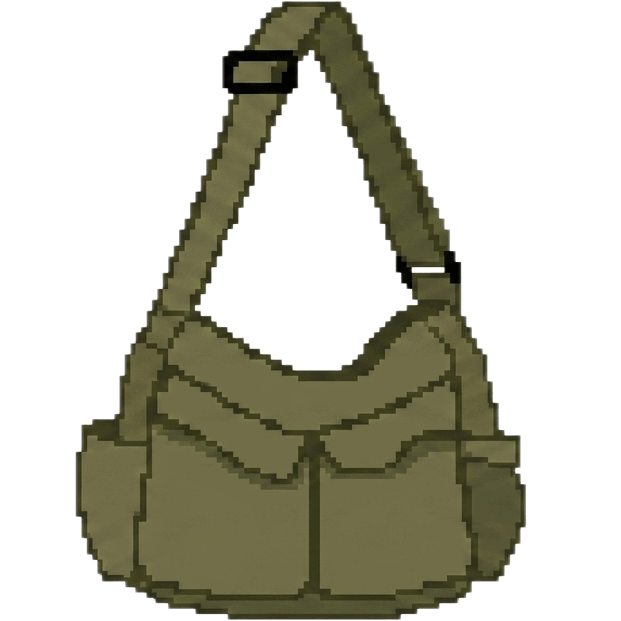
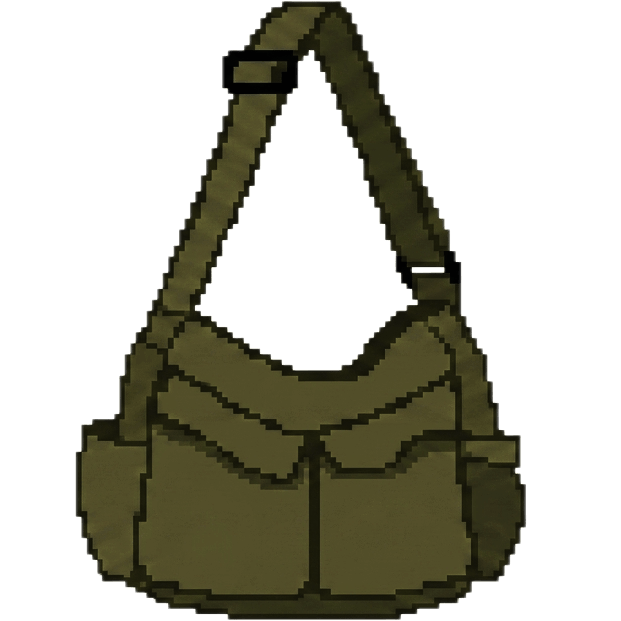
Персонаж перерисован и анимирован + улучшение логики

diff --git a/GameController.cs b/GameController.cs
@@ -92,7 +92,7 @@ namespace LikhoStation
         // СОХРАНЕНИЕ И ЗАГРУЗКА
         private void SaveGame()
         {
-            string data = $"{CurrentLevel.Name},{CurrentLevel.IsBagPickedUp}";
+            var data = $"{CurrentLevel.Name},{CurrentLevel.IsBagPickedUp}";
             File.WriteAllText(saveFilePath, data);
             HasSaveFile = true;
         }
@@ -101,12 +101,12 @@ namespace LikhoStation
         {
             if (File.Exists(saveFilePath))
             {
-                string[] data = File.ReadAllText(saveFilePath).Split(',');
+                var data = File.ReadAllText(saveFilePath).Split(',');
 
                 if (data.Length >= 2)
                 {
-                    string savedScene = data[0];
-                    bool isBagPickedUp = bool.Parse(data[1]);
+                    var savedScene = data[0];
+                    var isBagPickedUp = bool.Parse(data[1]);
 
                     LoadScene(savedScene);
                     CurrentLevel.IsBagPickedUp = isBagPickedUp;
@@ -142,9 +142,10 @@ namespace LikhoStation
             CurrentLevel.HasKhmar = false;
             CurrentLevel.IsStaticCamera = true;
             CurrentLevel.WorldWidth = screenWidth;
-            CurrentLevel.GroundY = screenHeight * 0.97f; // Опустили горизонт
+            CurrentLevel.GroundY = screenHeight * 0.97f;
 
-            Player.Size = new Size(200, 550);
+            Player.Speed = 10.0f;
+            Player.Size = new Size(325, 650);
             Player.Pos = new PointF(100, CurrentLevel.GroundY - Player.Size.Height);
 
             CurrentLevel.Platforms.Clear();
@@ -161,7 +162,7 @@ namespace LikhoStation
             CurrentLevel.WorldWidth = 3500;
             CurrentLevel.GroundY = screenHeight * 0.91f;
 
-            Player.Size = new Size(80, 220);
+            Player.Size = new Size(125, 250);
             Player.Pos = new PointF(100, CurrentLevel.GroundY - Player.Size.Height);
 
             CurrentLevel.Platforms.Clear();
@@ -200,9 +201,10 @@ namespace LikhoStation
             CurrentLevel.FollowY = true;
             CurrentLevel.WorldWidth = 3500;
 
-            Player.Size = new Size(180, 495);
+            Player.Speed = 10.0f;
+            Player.Size = new Size(250, 500);
 
-            float startY = 1040f;
+            var startY = 1040f;
 
             Player.Pos = new PointF(300, startY - Player.Size.Height - 50);
 
@@ -210,18 +212,18 @@ namespace LikhoStation
 
             CurrentLevel.Platforms.Add(new RectangleF(0, startY, 1130, 2000));
 
-            int steps = 31;
-            float stepW = 37;
-            float stepH = 49;
+            var steps = 31;
+            var stepW = 37;
+            var stepH = 49;
 
             for (int i = 0; i < steps; i++)
             {
-                float x = 1130 + (i * stepW);
-                float y = startY + (i * stepH);
+                var x = 1130 + (i * stepW);
+                var y = startY + (i * stepH);
                 CurrentLevel.Platforms.Add(new RectangleF(x, y, stepW, 2000));
             }
 
-            float bottomY = startY + (steps * stepH);
+            var bottomY = startY + (steps * stepH);
             CurrentLevel.GroundY = bottomY;
 
             CurrentLevel.Platforms.Add(new RectangleF(1130 + (steps * stepW), bottomY, 2000, 2000));
@@ -242,8 +244,8 @@ namespace LikhoStation
         private void UpdateCutscene()
         {
             CurrentLevel.CutsceneTimer++;
-            int fadeSpeed = (CurrentLevel.CutsceneStep >= 4) ? 20 : 8; // В вагоне переходы быстрее
-            int stayTime = (CurrentLevel.CutsceneStep == 6) ? 450 : 120; // 6 кадр висит долго
+            var fadeSpeed = (CurrentLevel.CutsceneStep >= 4) ? 20 : 8; // В вагоне переходы быстрее
+            var stayTime = (CurrentLevel.CutsceneStep == 6) ? 450 : 120; // 6 кадр висит долго
 
             if (!CurrentLevel.IsFadeOut)
             {
@@ -278,7 +280,7 @@ namespace LikhoStation
         {
             State = GameState.Playing;
             CurrentLevel = new Level { Name = "AbandonedTrain", IsRealWorld = false, HasKhmar = true, WorldWidth = 2500 };
-            Player.Size = new Size(80, 220);
+            Player.Size = new Size(110, 220);
             CurrentLevel.GroundY = screenHeight * 0.75f;
             Player.Pos = new PointF(300, CurrentLevel.GroundY - Player.Size.Height);
             CurrentLevel.Platforms.Add(new RectangleF(0, CurrentLevel.GroundY, 2500, 500));
@@ -309,13 +311,14 @@ namespace LikhoStation
             CheckBoundaries();
             UpdateItems(pressedKeys);
             UpdateCamera();
+            UpdateAnimation();
         }
 
         private void UpdateDialog()
         {
             if (CurrentLevel.Name != "Kitchen" || CurrentLevel.HasPlayedIntroDialog) return;
 
-            if (Player.Pos.X >= 450 && CurrentLevel.DialogStep == 0)
+            if (Player.Pos.X >= 400 && CurrentLevel.DialogStep == 0)
             {
                 CurrentLevel.DialogStep = 1;
                 CurrentLevel.IsDialogActive = true;
@@ -327,8 +330,8 @@ namespace LikhoStation
         private void ProcessDialogState()
         {
             CurrentLevel.DialogTimer++;
-            int t = CurrentLevel.DialogTimer;
-            int limit = (CurrentLevel.DialogStep == 2) ? 80 : 110;
+            var t = CurrentLevel.DialogTimer;
+            var limit = (CurrentLevel.DialogStep == 2) ? 80 : 110;
 
             if (t <= 15) CurrentLevel.DialogAlpha = t * 17;
             else if (t >= (limit - 15) && t <= limit) CurrentLevel.DialogAlpha = (limit - t) * 17;
@@ -376,23 +379,39 @@ namespace LikhoStation
             }
         }
 
+        private void UpdateAnimation()
+        {
+            // Если диалог активен — Яна всегда стоит
+            if (CurrentLevel.IsDialogActive)
+            {
+                Player.IsMoving = false;
+                Player.WalkFrame = 0;
+                return;
+            }
+
+            if (Player.IsMoving && Player.IsGrounded)
+                Player.WalkFrame = (int)((DateTime.Now.TimeOfDay.TotalMilliseconds / 300) % 4); // СКОРОСТЬ ШАГА
+            else
+                Player.WalkFrame = 0;
+        }
+
         private void MovePlayerX(HashSet<Keys> keys)
         {
+            Player.IsMoving = false;
+
             if (Player.IsHoldingBreath || CurrentLevel.IsDialogActive) return;
+            var currentSpeed = Player.IsGrounded ? Player.Speed : Player.AirSpeed;
+            var nextX = Player.Pos.X;
 
-            float currentSpeed = Player.IsGrounded ? Player.Speed : Player.AirSpeed;
-
-            float nextX = Player.Pos.X;
-            if (keys.Contains(Keys.A) || keys.Contains(Keys.Left)) nextX -= currentSpeed;
-            if (keys.Contains(Keys.D) || keys.Contains(Keys.Right)) nextX += currentSpeed;
+            if (keys.Contains(Keys.A) || keys.Contains(Keys.Left)) { nextX -= currentSpeed; Player.FacingRight = false; Player.IsMoving = true; }
+            if (keys.Contains(Keys.D) || keys.Contains(Keys.Right)) { nextX += currentSpeed; Player.FacingRight = true; Player.IsMoving = true; }
 
             RectangleF nextPlayerX = new RectangleF(nextX, Player.Pos.Y, Player.Size.Width, Player.Size.Height);
-            bool canMoveX = true;
+            var canMoveX = true;
             foreach (var plat in CurrentLevel.Platforms)
                 if (nextPlayerX.IntersectsWith(plat)) { canMoveX = false; break; }
 
             if (canMoveX) Player.Pos.X = nextX;
-
             if (CurrentLevel.Name == "SubwayDescent" && (Player.Pos.X + Player.Size.Width) >= CurrentLevel.WorldWidth)
                 StartMetroCutscene();
         }
@@ -401,16 +420,18 @@ namespace LikhoStation
         {
             if (CurrentLevel.IsDialogActive) return;
 
-            bool canJump = CurrentLevel.Name != "Kitchen" && CurrentLevel.Name != "SubwayDescent";
+            var canJump = CurrentLevel.Name != "Kitchen" && CurrentLevel.Name != "SubwayDescent";
             if (keys.Contains(Keys.Space) && Player.IsGrounded && !Player.IsHoldingBreath && canJump)
             {
                 Player.VelocityY = Player.JumpPower;
                 Player.IsGrounded = false;
             }
 
-            float nextY = Player.Pos.Y + Player.VelocityY;
-            RectangleF nextPlayerY = new RectangleF(Player.Pos.X, nextY, Player.Size.Width, Player.Size.Height);
-            bool hitGround = false;
+            Player.VelocityY += gravity;
+
+            var nextY = Player.Pos.Y + Player.VelocityY;
+            var nextPlayerY = new RectangleF(Player.Pos.X, nextY, Player.Size.Width, Player.Size.Height);
+            var hitGround = false;
 
             foreach (var plat in CurrentLevel.Platforms)
             {
@@ -420,7 +441,7 @@ namespace LikhoStation
                     else if (Player.VelocityY < 0) { Player.Pos.Y = plat.Bottom; Player.VelocityY = 0; hitGround = true; break; }
                 }
             }
-            if (!hitGround) { Player.Pos.Y = nextY; Player.VelocityY += gravity; Player.IsGrounded = false; }
+            if (!hitGround) { Player.Pos.Y = nextY; Player.IsGrounded = false; }
         }
 
         private void CheckBoundaries()

diff --git a/GameRenderer.cs b/GameRenderer.cs
@@ -20,6 +20,12 @@ namespace LikhoStation
         private Image subwayFg;
         private Image[] cutsceneImages = new Image[6];
 
+        private Image yanaHoodieIdle;
+        private List<Image> yanaHoodieWalk = new List<Image>();
+
+        private Image yanaCoatIdle;
+        private List<Image> yanaCoatWalk = new List<Image>();
+
         private PrivateFontCollection customFonts = new PrivateFontCollection();
         private FontFamily pixelFont;
 
@@ -34,6 +40,14 @@ namespace LikhoStation
             if (File.Exists(@"images\street_bg.png")) streetBg = Image.FromFile(@"images\street_bg.png");
             if (File.Exists(@"images\subway_bg.png")) subwayBg = Image.FromFile(@"images\subway_bg.png");
             if (File.Exists(@"images\subway_fg.png")) subwayFg = Image.FromFile(@"images\subway_fg.png");
+
+            var p = @"images\";
+            if (File.Exists(p + "yana_hoodie_idle.png")) yanaHoodieIdle = Image.FromFile(p + "yana_hoodie_idle.png");
+            if (File.Exists(p + "yana_hoodie_w1.png")) yanaHoodieWalk.Add(Image.FromFile(p + "yana_hoodie_w1.png"));
+            if (File.Exists(p + "yana_hoodie_w2.png")) yanaHoodieWalk.Add(Image.FromFile(p + "yana_hoodie_w2.png"));
+            if (File.Exists(p + "yana_coat_idle.png")) yanaCoatIdle = Image.FromFile(p + "yana_coat_idle.png");
+            if (File.Exists(p + "yana_coat_w1.png")) yanaCoatWalk.Add(Image.FromFile(p + "yana_coat_w1.png"));
+            if (File.Exists(p + "yana_coat_w2.png")) yanaCoatWalk.Add(Image.FromFile(p + "yana_coat_w2.png"));
             if (File.Exists(@"images\LCD40x2Display-Regular.otf"))
             {
                 customFonts.AddFontFile(@"images\LCD40x2Display-Regular.otf");
@@ -184,17 +198,39 @@ namespace LikhoStation
         {
             Level level = engine.CurrentLevel;
             Player p = engine.Player;
+            bool isK = level.Name == "Kitchen";
+            Image idleImg = isK ? yanaHoodieIdle : yanaCoatIdle;
+            Image s = idleImg;
 
-            // Сначала рисуем саму Яну
-            Brush pBrush = p.IsExhausted ? ((blinkCounter % 16 < 8) ? Brushes.Red : Brushes.White) : (p.IsHoldingBreath ? Brushes.MediumPurple : Brushes.DarkRed);
-            g.FillRectangle(level.IsRealWorld ? Brushes.DarkRed : pBrush, p.Pos.X, p.Pos.Y, p.Size.Width, p.Size.Height);
-
-            // Затем поверх Яны рисуем передний план (перила эскалатора)
-            if (level.Name == "SubwayDescent" && subwayFg != null && !p.IsFocusMode)
+            if (!p.IsGrounded && !isK) // Если в прыжке (и это не кухня)
             {
-                // Используем ту же высоту 2700, что и для заднего фона, чтобы они идеально совпали
-                g.DrawImage(subwayFg, 0, 0, level.WorldWidth, 2700);
+                // Используем yana_coat_w2.png (это второй элемент в списке walk)
+                if (yanaCoatWalk.Count > 1) s = yanaCoatWalk[1];
             }
+            else if (p.IsMoving && p.IsGrounded)
+            {
+                var walkList = isK ? yanaHoodieWalk : yanaCoatWalk;
+                if (p.WalkFrame == 0 && walkList.Count > 0) s = walkList[0];
+                else if (p.WalkFrame == 2 && walkList.Count > 1) s = walkList[1];
+            }
+
+            if (s != null) DrawEntitySprite(g, s, p); // Вынес отрисовку в отдельный метод для чистоты
+
+            if (level.Name == "SubwayDescent" && subwayFg != null && !p.IsFocusMode)
+                g.DrawImage(subwayFg, 0, 0, level.WorldWidth, 2700);
+        }
+
+        private void DrawEntitySprite(Graphics g, Image s, Player p)
+        {
+            if (!p.FacingRight)
+            {
+                g.TranslateTransform(p.Pos.X * 2 + p.Size.Width, 0);
+                g.ScaleTransform(-1, 1);
+            }
+
+            g.DrawImage(s, p.Pos.X, p.Pos.Y, p.Size.Width, p.Size.Height);
+
+            if (!p.FacingRight) g.ResetTransform();
         }
 
         private void DrawKhmar(Graphics g, Player p, float camX, float camY, int width, int height)

diff --git a/GameModels.cs b/GameModels.cs
@@ -10,7 +10,7 @@ namespace LikhoStation
         public PointF Pos;
         public Size Size = new Size(60, 120);
 
-        public float Speed = 6.0f;     // Медленная скорость шага по земле
+        public float Speed = 8.0f;     // Медленная скорость шага по земле
         public float AirSpeed = 10.0f; // Быстрая скорость полета в прыжке (для дальности)
 
         public float VelocityY = 0;
@@ -21,6 +21,12 @@ namespace LikhoStation
         public bool IsHoldingBreath = false;
         public bool IsExhausted = false;
         public bool IsFocusMode = false;
+
+        // АНИМАЦИЯ
+        public bool FacingRight = true;
+        public bool IsMoving = false;
+        public int WalkFrame = 0;
+        public int WalkTimer = 0;
     }
 
     public class Level
